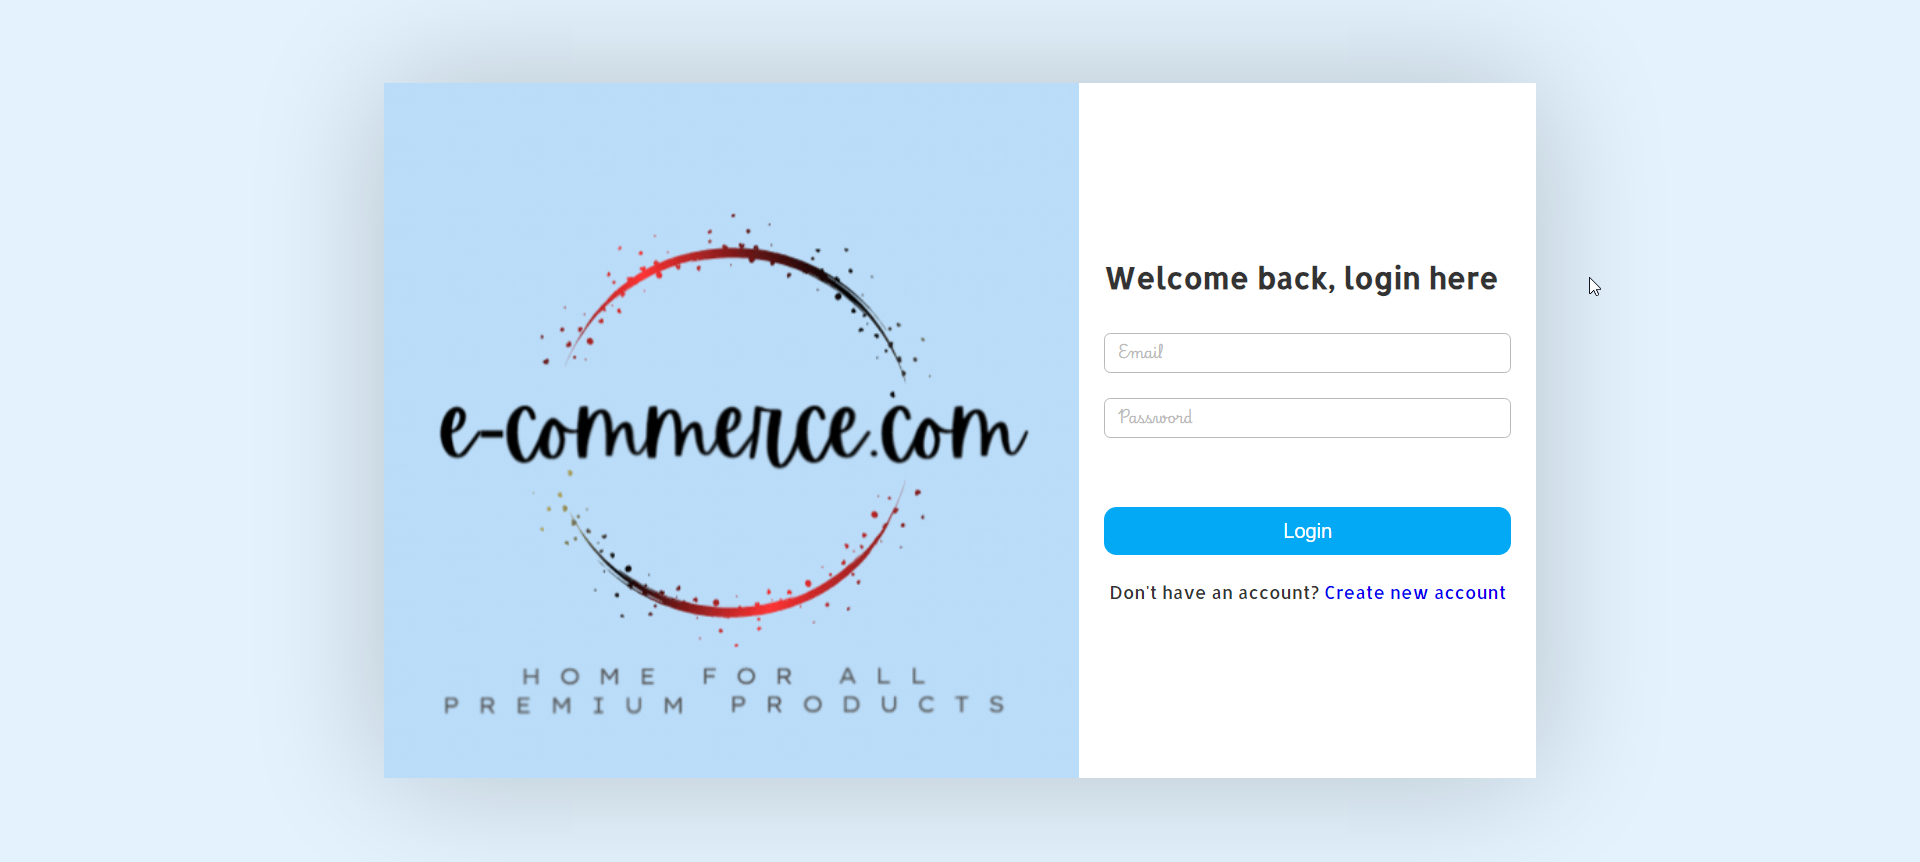
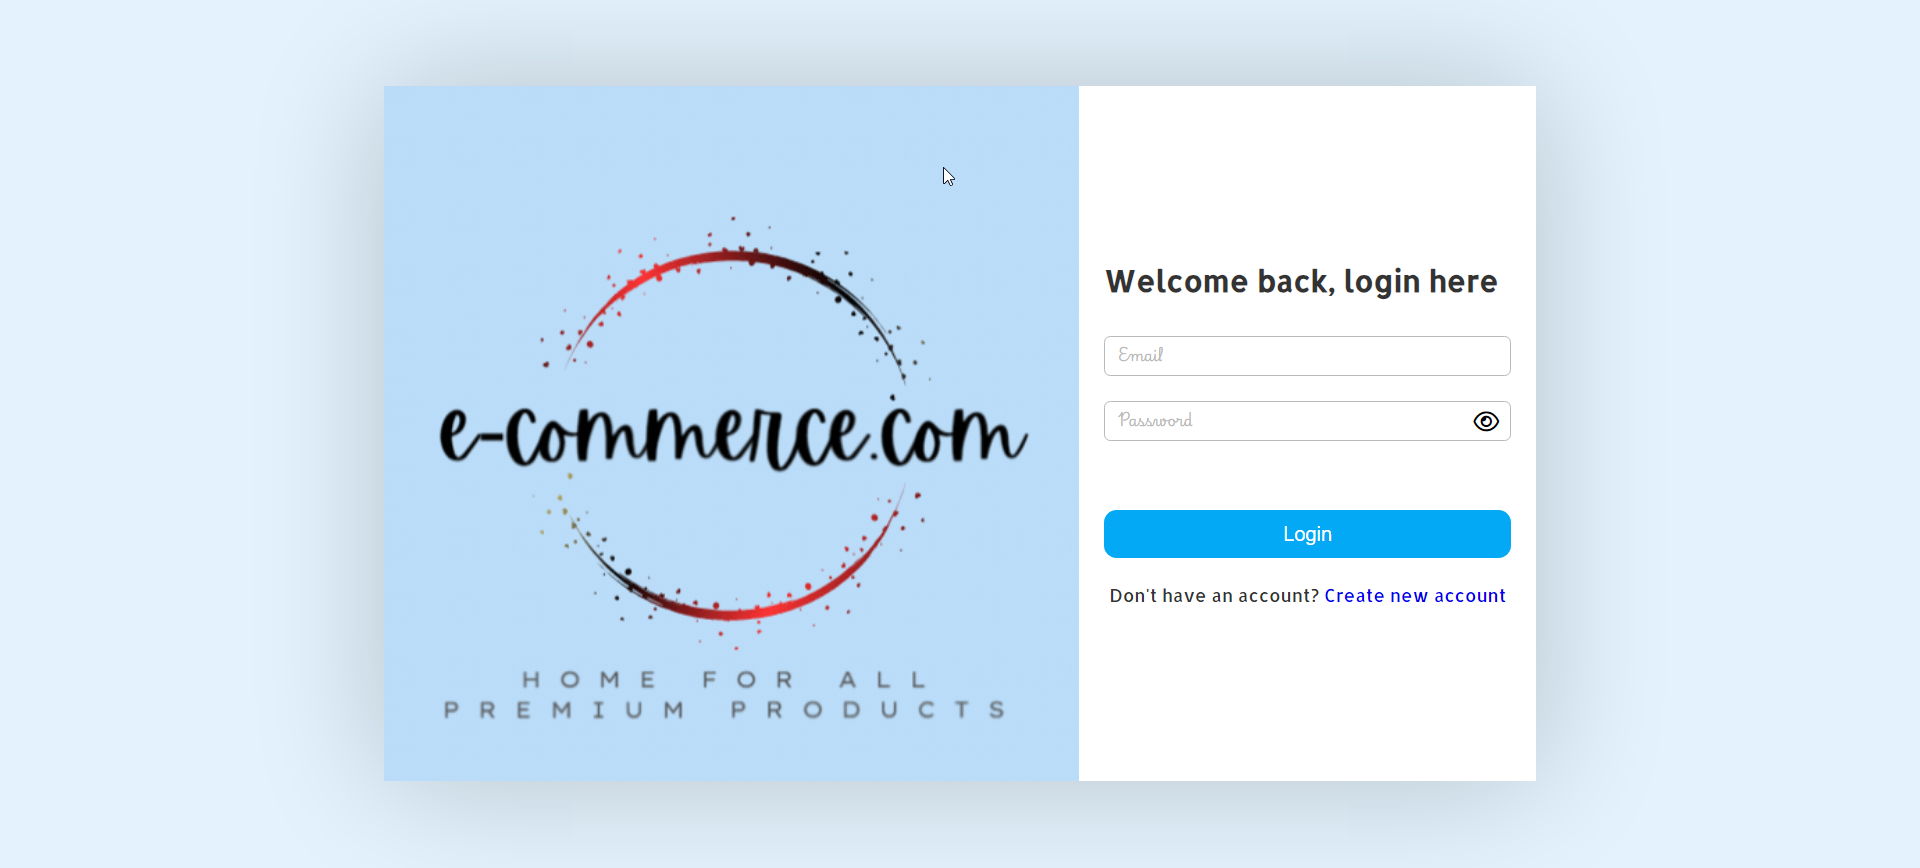
added show-hide password feature on signup and login pages

diff --git a/public/login.html b/public/login.html
@@ -7,13 +7,14 @@
     <meta name="viewport" content="width=device-width, initial-scale=1.0">
     <title>e-commerce.com- Login here</title>
     <link rel="icon" type="image/x-icon" href="img/favicon.webp">
-    
+
     <link rel="preconnect" href="https://fonts.googleapis.com">
     <link rel="preconnect" href="https://fonts.gstatic.com" crossorigin>
     <link href="https://fonts.googleapis.com/css2?family=Allerta&display=swap" rel="stylesheet">
     <link href="https://fonts.googleapis.com/css2?family=Playwrite+PE:wght@100..400&display=swap" rel="stylesheet">
     <link rel="stylesheet" href="css/style.css">
     <link rel="stylesheet" href="css/form.css">
+    <link rel="stylesheet" href="https://cdnjs.cloudflare.com/ajax/libs/font-awesome/6.0.0-beta3/css/all.min.css">
 </head>
 
 <body>
@@ -27,9 +28,15 @@
                 <h1 class="form-heading">Welcome back, login here</h1>
 
                 <input type="email" autocomplete="off" id="email" placeholder="email">
-                <input type="password" autocomplete="off" id="password" placeholder="password">
+                <div class="password-container">
+                    <input type="password" autocomplete="off" id="password" placeholder="Password">
+                    <span id="togglePassword" class="eye-icon">
+                        <i class="fa-regular fa-eye-slash"></i>
+                        <i class="fa-regular fa-eye"></i>
+                    </span>
+                </div>
 
-                <span class="error">**this is an error</span>
+                <span class="error">**There is an error</span>
 
                 <button class="submit-btn">Login</button>
                 <label for="tc" class="tc-text">Don't have an account? <a href="/signup">Create new

diff --git a/public/signup.html b/public/signup.html
@@ -7,13 +7,14 @@
     <meta name="viewport" content="width=device-width, initial-scale=1.0">
     <title>e-commerce.com - Signup here</title>
     <link rel="icon" type="image/x-icon" href="img/favicon.webp">
-    
+
     <link rel="preconnect" href="https://fonts.googleapis.com">
     <link rel="preconnect" href="https://fonts.gstatic.com" crossorigin>
     <link href="https://fonts.googleapis.com/css2?family=Allerta&display=swap" rel="stylesheet">
     <link href="https://fonts.googleapis.com/css2?family=Playwrite+PE:wght@100..400&display=swap" rel="stylesheet">
     <link rel="stylesheet" href="css/style.css">
     <link rel="stylesheet" href="css/form.css">
+    <link rel="stylesheet" href="https://cdnjs.cloudflare.com/ajax/libs/font-awesome/6.0.0-beta3/css/all.min.css">
 </head>
 
 <body>
@@ -27,7 +28,13 @@
 
                 <input type="text" autocomplete="off" id="name" placeholder="Full Name">
                 <input type="email" autocomplete="off" id="email" placeholder="Email">
-                <input type="password" autocomplete="off" id="password" placeholder="Password">
+                <div class="password-container">
+                    <input type="password" autocomplete="off" id="password" placeholder="Password">
+                    <span id="togglePassword" class="eye-icon">
+                        <i class="fa-regular fa-eye-slash"></i>
+                        <i class="fa-regular fa-eye"></i>
+                    </span>
+                </div>
                 <input type="tel" autocomplete="off" id="number" placeholder="Phone Number">
 
                 <span class="error">**There is an error</span>

diff --git a/public/js/form.js b/public/js/form.js
@@ -54,3 +54,24 @@ formBtn.addEventListener("click", () => {
     }
   }
 });
+
+const passwordField = document.getElementById("password");
+const togglePassword = document.getElementById("togglePassword");
+
+togglePassword.addEventListener("click", function () {
+  "text";
+  const type =
+    passwordField.getAttribute("type") === "password" ? "text" : "password";
+  passwordField.setAttribute("type", type);
+
+  const iconEyeSlash = this.querySelector(".fa-eye-slash");
+  const iconEye = this.querySelector(".fa-eye");
+
+  if (type === "text") {
+    iconEye.style.display = "inline";
+    iconEyeSlash.style.display = "none";
+  } else {
+    iconEye.style.display = "none";
+    iconEyeSlash.style.display = "inline";
+  }
+});

diff --git a/public/css/form.css b/public/css/form.css
@@ -116,3 +116,38 @@ body {
 .tc-text {
   text-align: center;
 }
+
+.password-container {
+  position: relative;
+}
+
+#password {
+  width: 100%;
+  padding-right: 40px;
+}
+
+.eye-icon {
+  position: absolute;
+  right: 10px;
+  top: 50%;
+  transform: translateY(-50%);
+  cursor: pointer;
+  font-size: 18px;
+  color: #000;
+}
+
+.eye-icon .fa-eye {
+  display: none;
+}
+
+.eye-icon.show-password .fa-eye {
+  display: inline;
+}
+
+.eye-icon .fa-eye-slash {
+  display: inline;
+}
+
+.eye-icon.show-password .fa-eye-slash {
+  display: none;
+}
